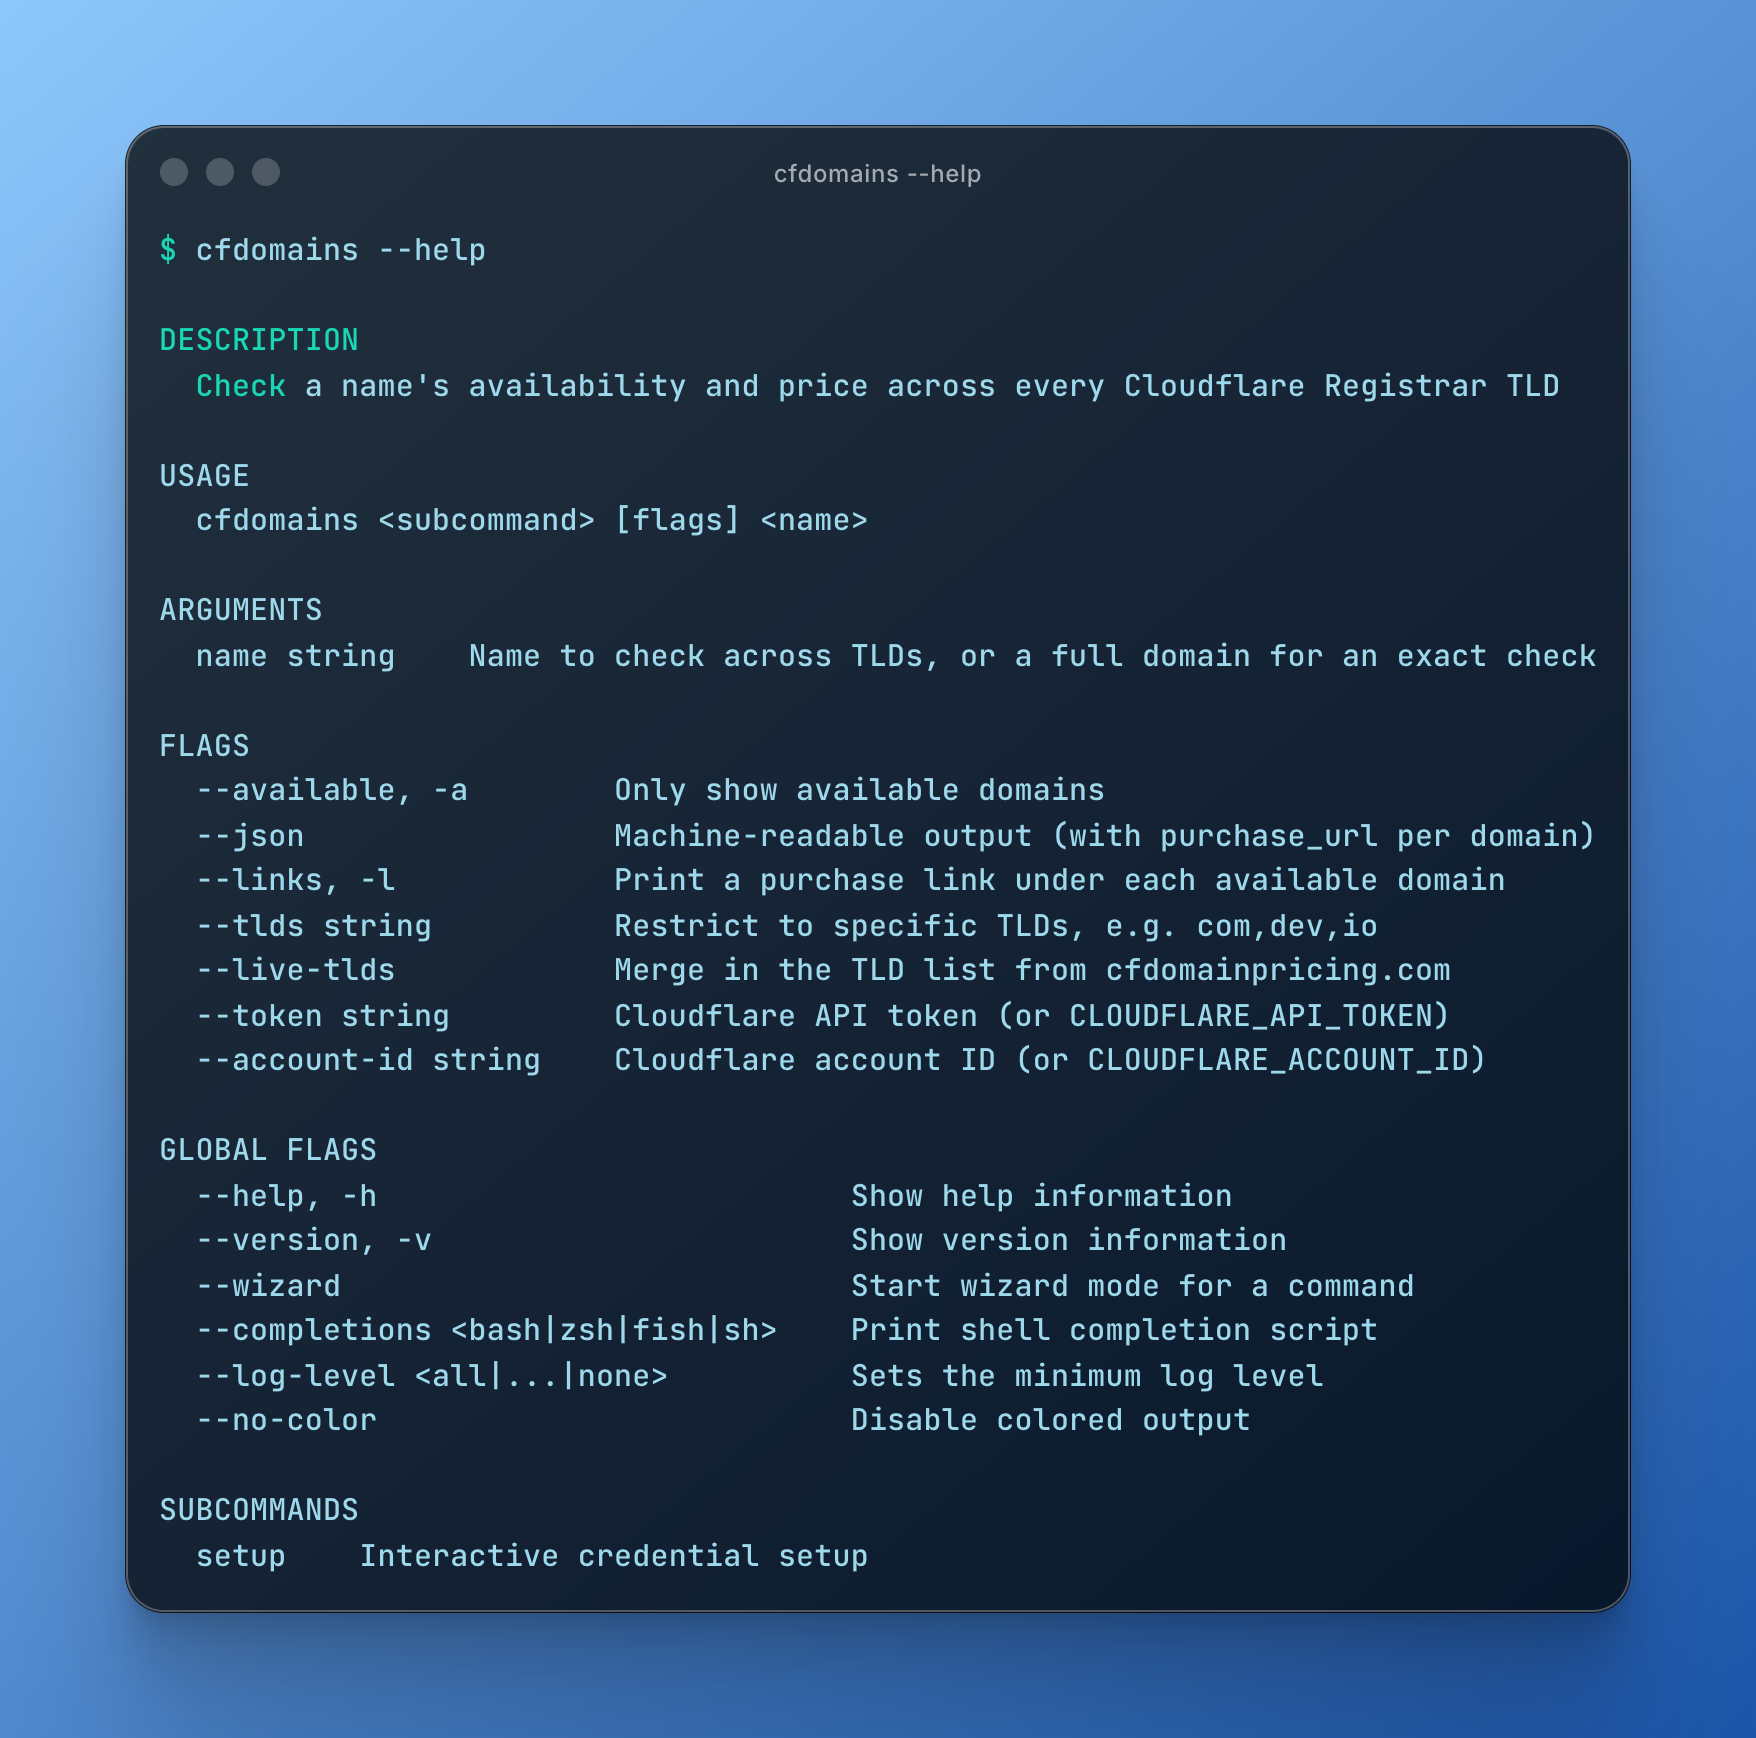
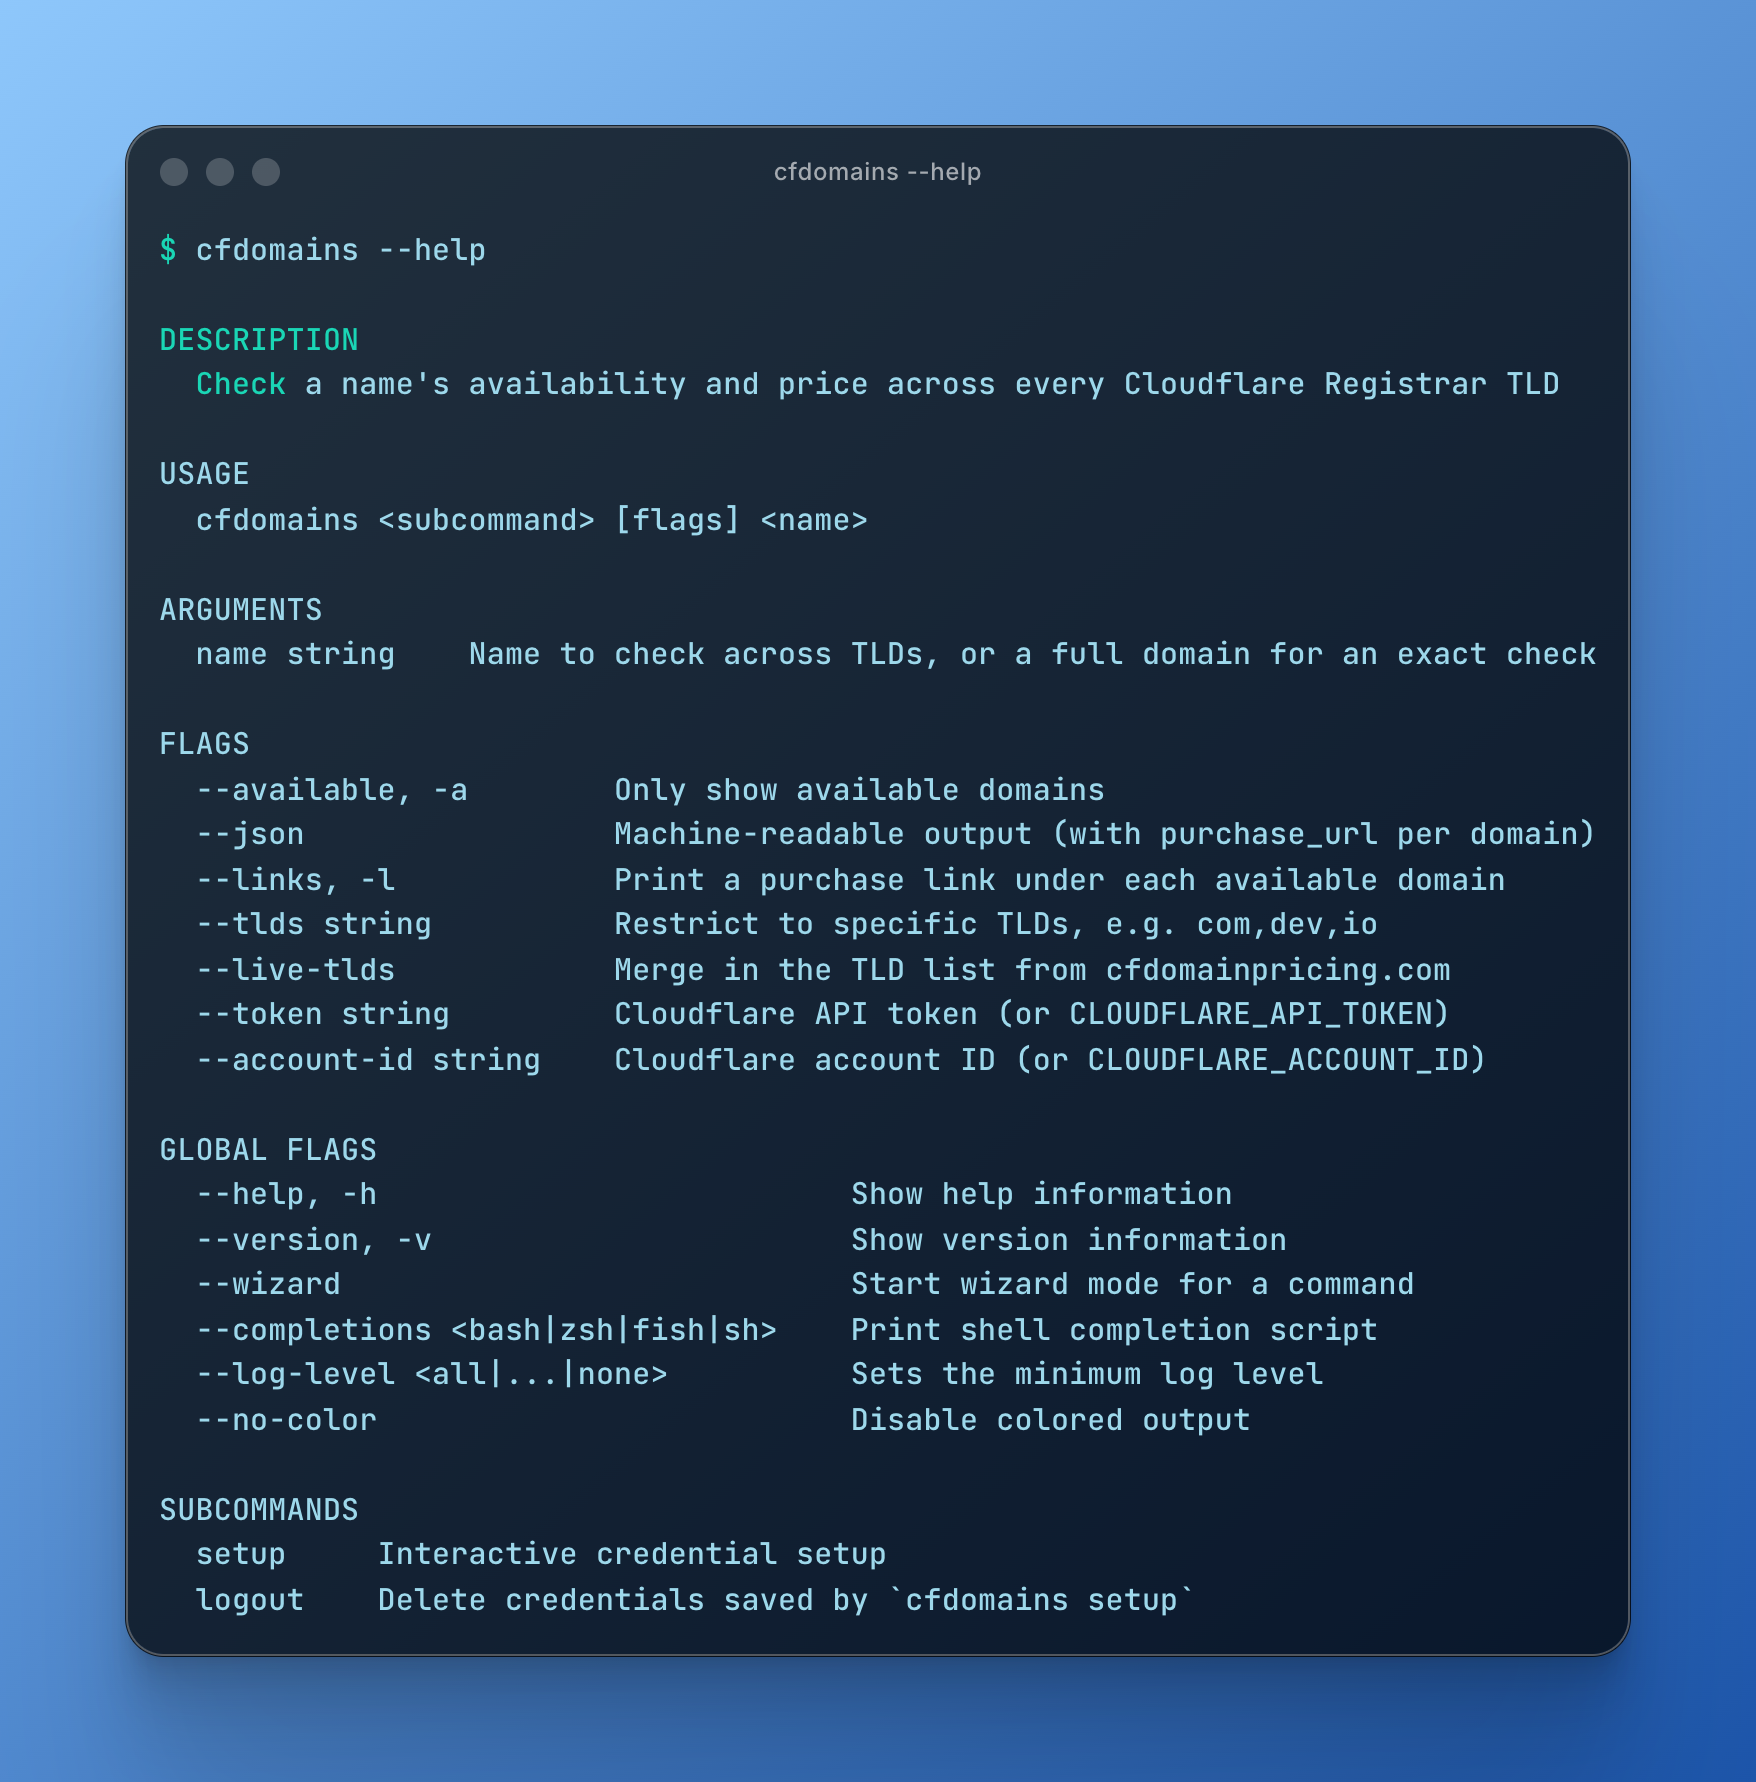
Add `cfdomains logout` to delete saved credentials
CredentialStore gains a `clear` effect (false when no file existed);
the logout subcommand reports what it removed and notes that env vars
and .env files are untouched. README and help screenshot updated.

diff --git a/src/Cli.ts b/src/Cli.ts
@@ -95,6 +95,21 @@ const setup = Command.make("setup", {}, () =>
     Command.withDescription("Interactive credential setup")
   )
 
+const logout = Command.make("logout", {}, () =>
+  Effect.gen(function*() {
+    const store = yield* CredentialStore
+    const { dim, green } = yield* Style
+    const removed = yield* store.clear
+    if (removed) {
+      yield* Console.log(`${green("✔")} removed ${store.configPath}`)
+      yield* Console.log(dim("Environment variables and .env files are untouched."))
+    } else {
+      yield* Console.log(`No saved credentials (${store.configPath} does not exist).`)
+    }
+  }).pipe(withStyleFlag)).pipe(
+    Command.withDescription("Delete credentials saved by `cfdomains setup`")
+  )
+
 const missingCredentials = new CliError.UserError({
   cause: "missing credentials",
   userMessage: "No Cloudflare credentials found.\n" +
@@ -227,7 +242,7 @@ export const cfdomains = Command.make("cfdomains", { name, ...flags }, (input) =
     Command.withDescription(
       "Check a name's availability and price across every Cloudflare Registrar TLD"
     ),
-    Command.withSubcommands([setup]),
+    Command.withSubcommands([setup, logout]),
     Command.withGlobalFlags([NoColor]),
     Command.withExamples([
       { command: "cfdomains myname", description: "Check myname.<tld> for every known TLD" },

diff --git a/src/Credentials.ts b/src/Credentials.ts
@@ -32,6 +32,8 @@ export class CredentialStore extends Context.Service<CredentialStore, {
   readonly load: Effect.Effect<Option.Option<Credentials>>
   /** Persist credentials to the config file (mode 600). */
   save(credentials: Credentials): Effect.Effect<void, PlatformError>
+  /** Delete the config file; false when there was none. */
+  readonly clear: Effect.Effect<boolean, PlatformError>
   /** Where `save` writes. */
   readonly configPath: string
 }>()("cfdomains/CredentialStore") {
@@ -78,7 +80,13 @@ export class CredentialStore extends Context.Service<CredentialStore, {
           yield* fs.chmod(configPath, 0o600)
         })
 
-      return CredentialStore.of({ load, save, configPath })
+      const clear = Effect.gen(function*() {
+        const exists = yield* fs.exists(configPath)
+        if (exists) yield* fs.remove(configPath)
+        return exists
+      })
+
+      return CredentialStore.of({ load, save, clear, configPath })
     })
   )
 }

diff --git a/scripts/screenshots.ts b/scripts/screenshots.ts
@@ -106,7 +106,8 @@ const shots: ReadonlyArray<Shot> = [
       "  --no-color                          Disable colored output",
       "",
       "SUBCOMMANDS",
-      "  setup    Interactive credential setup"
+      "  setup     Interactive credential setup",
+      "  logout    Delete credentials saved by `cfdomains setup`"
     ].join("\n")
   },
   {

diff --git a/README.md b/README.md
@@ -86,8 +86,8 @@ Credentials are looked up in this order — the wizard is only the last resort:
 
 The wizard stores credentials in `~/.config/cf-domain-search/config.json`
 (honoring `$XDG_CONFIG_HOME` if set), written with file mode `600` so only your
-user can read the token. Re-running `cfdomains setup` replaces it; delete the
-file to sign out.
+user can read the token. Re-running `cfdomains setup` replaces it, and
+`cfdomains logout` deletes it.
 
 > [!IMPORTANT]
 > The API token needs the **Account → Registrar Domains → Edit** permission — the beta
